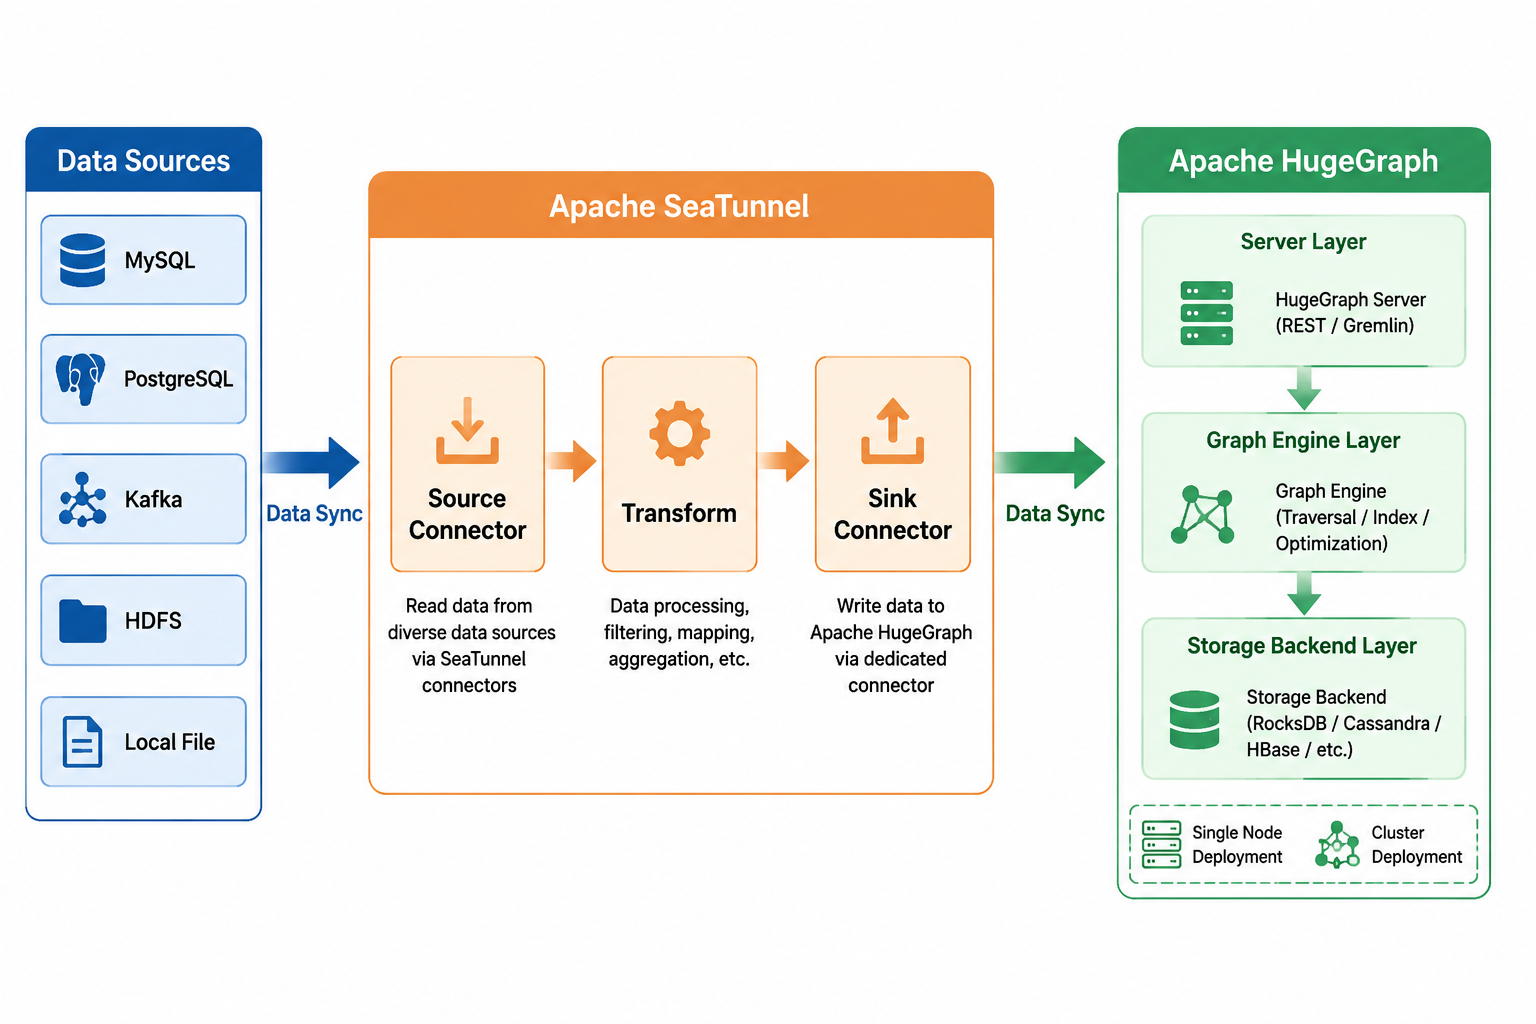
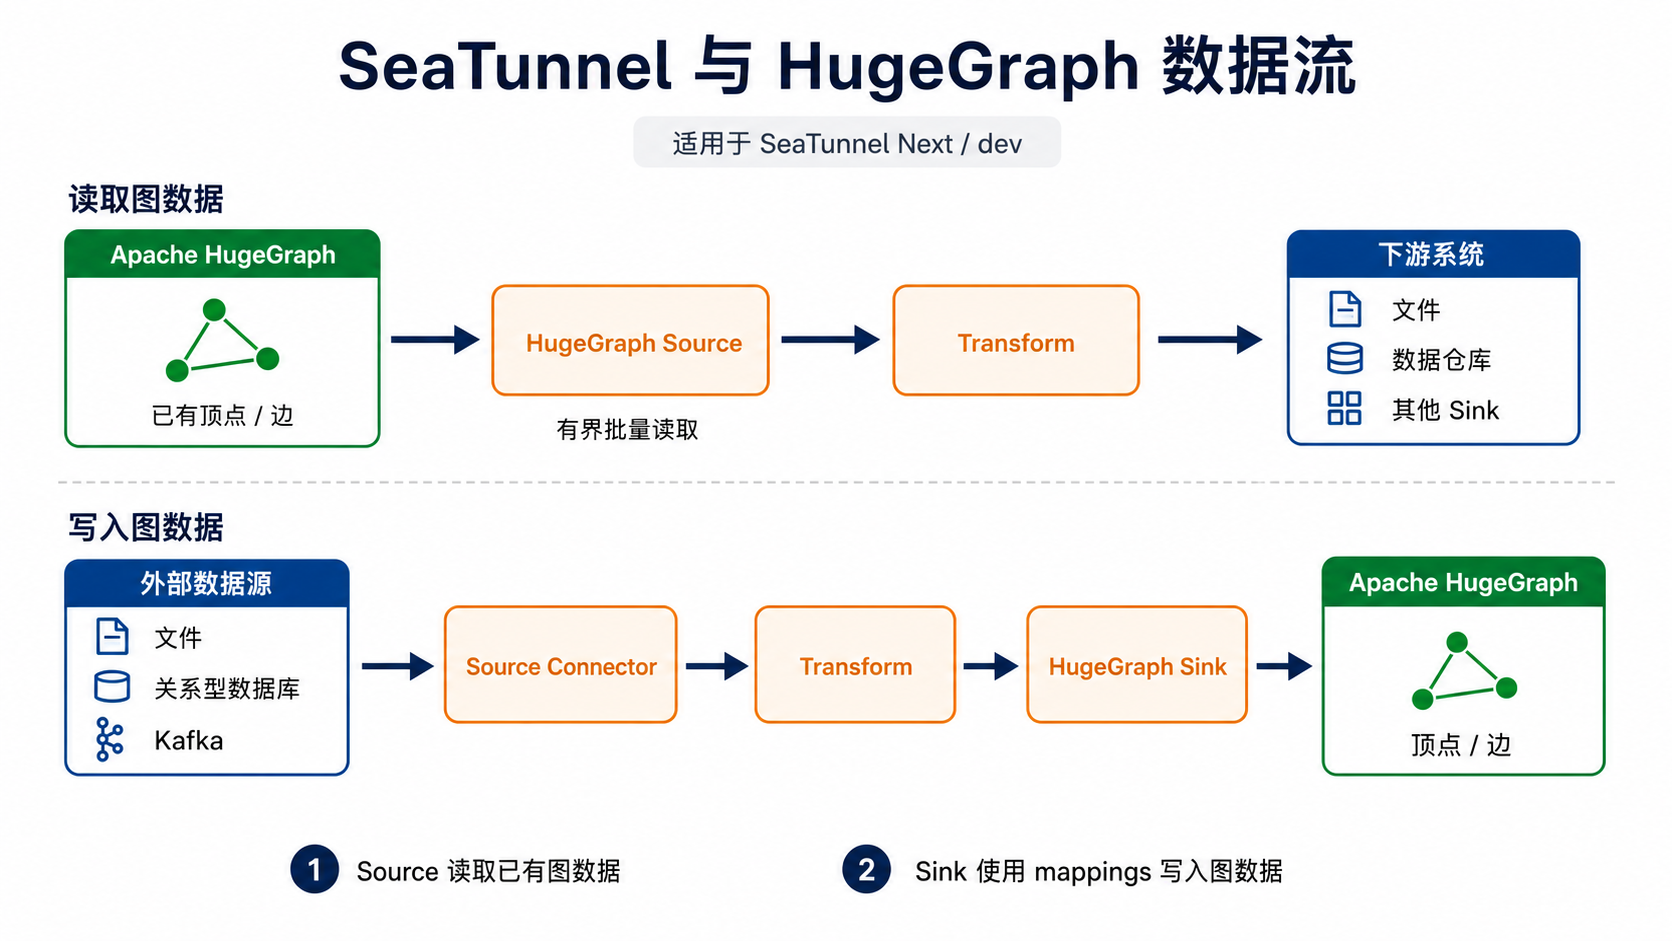
docs: add SeaTunnel Source and Sink guide
- add a single-node import walkthrough with verification
- document HugeGraph Source reads and graph clone flows
- align examples and limits with SeaTunnel dev
- remove unrelated workflow and obsolete assets

diff --git a/content/cn/docs/quickstart/toolchain/hugegraph-seatunnel-connector.md b/content/cn/docs/quickstart/toolchain/hugegraph-seatunnel-connector.md
@@ -1,51 +1,54 @@
 ---
-title: "HugeGraph-SeaTunnel Connector Quick Start"
-linkTitle: "使用 SeaTunnel Connector 同步数据"
+title: "HugeGraph 与 SeaTunnel Connector 快速开始"
+linkTitle: "使用 SeaTunnel 读写 HugeGraph"
 weight: 5
 ---
 
-### 1 HugeGraph-SeaTunnel Connector 概述
+### 1 先了解版本范围
 
-[Apache SeaTunnel](https://seatunnel.apache.org/) 是一个高性能、分布式的数据集成平台，支持海量数据的实时同步与批处理。
-HugeGraph 社区已向 Apache SeaTunnel 贡献了 Connector-V2 支持，用户可以通过 SeaTunnel 将 HugeGraph 与外部数据系统进行数据同步。
+Apache SeaTunnel 的 HugeGraph Connector 可以从 HugeGraph 读取顶点或边，也可以把上游数据写成 HugeGraph 顶点或边。
 
-![HugeGraph + SeaTunnel 数据集成架构图](/cn/docs/images/seatunnel/hugegraph-seatunnel-architecture.png)
+本文跟随 SeaTunnel 官网的 `Next` 文档和 `dev` 分支代码。固定版本的发行包可能只包含其中一部分能力。准备生产任务时，请在 SeaTunnel 官网切换到所用版本，再核对该版本的参数和限制。
 
-### 2 功能特性
+![SeaTunnel Next 和 dev 中，从 HugeGraph 经 HugeGraph Source 读取到下游，以及从外部数据源经 HugeGraph Sink 写入 HugeGraph 的两条独立数据流](/cn/docs/images/seatunnel/hugegraph-seatunnel-architecture.png)
 
-HugeGraph-SeaTunnel Connector 提供以下能力：
+图中上下两条流程是独立的批量任务，不表示实时双向同步。`Transform` 是按需添加的可选步骤。小屏阅读时可[查看原图](/cn/docs/images/seatunnel/hugegraph-seatunnel-architecture.png)。
 
-- **HugeGraph Sink Connector**（已发布）：将外部数据写入 HugeGraph，支持顶点和边的批量写入、更新与删除
-- **HugeGraph Source Connector**（开发中）：从 HugeGraph 读取图数据，支持顶点和边的批量读取
-- **顶点同步**：支持全量或增量同步顶点数据，支持多种 ID 策略
-- **边同步**：支持全量或增量同步边数据，自动关联源顶点与目标顶点
-- **Schema 自动管理**：支持自动创建 PropertyKey、VertexLabel、EdgeLabel（`CREATE_SCHEMA_WHEN_NOT_EXIST`）
-- **数据迁移**：支持在不同 HugeGraph 实例之间迁移数据，或从其他数据源导入图数据
+### 2 用单机 SeaTunnel 完成第一次导入
 
-![HugeGraph Source/Sink 双向数据流示意图](/cn/docs/images/seatunnel/hugegraph-seatunnel-source-sink.png)
+这条路径使用 `FakeSource` 生成两个人物顶点，再写入本机 HugeGraph。整个任务只需要 SeaTunnel、HugeGraph 和三个 Connector 插件。
 
-### 3 环境要求
+#### 2.1 启动 HugeGraph
 
-| 组件 | 版本要求 | 说明 |
-|------|---------|------|
-| Java | 11+ | HugeGraph Client 1.5.0+ 运行环境要求 |
-| Apache SeaTunnel | 2.3.13+ | Sink Connector 自此版本发布（内置 HugeGraph Client 1.5.0） |
-| HugeGraph Server | 1.5.0+ | 需与 Connector 内置 Client 版本匹配 |
+按照 [HugeGraph Server 快速开始](/cn/docs/quickstart/hugegraph/hugegraph-server) 启动服务。默认地址为 `http://localhost:8080`，可以先检查服务是否可访问。
 
-> **Source Connector 说明**：HugeGraph Source Connector 目前仅在 SeaTunnel 开发分支（Next/master）中可用，
-> 尚未包含在正式 Release 中。如需使用 Source 功能，请从 SeaTunnel 源码编译或等待下一版本发布。
+```bash
+curl http://localhost:8080/versions
+```
 
-### 4 快速开始
+#### 2.2 安装 Connector
 
-#### 4.1 安装 SeaTunnel
+准备一个包含 HugeGraph Connector 的 SeaTunnel `Next` 或 `dev` 构建。在 `config/plugin_config` 中保留下列插件。
 
-请参考 [Apache SeaTunnel 部署指南](https://seatunnel.apache.org/docs/getting-started/) 完成 SeaTunnel 的安装部署。
+```text
+--seatunnel-connectors--
+connector-fake
+connector-console
+connector-hugegraph
+--end--
+```
 
-#### 4.2 使用 HugeGraph Sink Connector（写入数据）
+发行包能够取得对应版本插件时，在 SeaTunnel 目录中执行安装脚本。
 
-以下示例展示如何通过 SeaTunnel 将数据写入 HugeGraph：
+```bash
+sh bin/install-plugin.sh
+```
 
-**写入顶点数据：**
+如果开发版插件尚未发布到仓库，需要从 SeaTunnel `dev` 分支构建。插件代码和 SeaTunnel 运行时应来自同一版本。安装方法可参考 [SeaTunnel 本地部署说明](https://seatunnel.apache.org/zh-CN/docs/getting-started/locally/deployment/)。
+
+#### 2.3 保存顶点导入配置
+
+把下面内容保存为 `config/hugegraph-vertex-sink.conf`。`mappings` 描述输入字段和 HugeGraph 顶点之间的关系。`CREATE_SCHEMA_WHEN_NOT_EXIST` 会在首次运行时创建缺失的属性键和 `person` 顶点标签。示例使用 `CUSTOMIZE_STRING`，把 `name` 的值直接作为顶点 ID，便于后续迁移时保留 ID。
 
 ```hocon
 env {
@@ -54,26 +57,37 @@ env {
 
 source {
   FakeSource {
-    plugin_output = "fake"
     schema = {
       fields = {
         name = "string"
         age = "int"
       }
     }
+    rows = [
+      {
+        kind = INSERT
+        fields = ["alice", 29]
+      }
+      {
+        kind = INSERT
+        fields = ["bob", 31]
+      }
+    ]
   }
 }
 
 sink {
   HugeGraph {
-    host = "127.0.0.1"
+    host = "localhost"
     port = 8080
+    protocol = "http"
     graph_name = "hugegraph"
+    schema_save_mode = "CREATE_SCHEMA_WHEN_NOT_EXIST"
     mappings = [
       {
         type = "VERTEX"
         label = "person"
-        idStrategy = "PRIMARY_KEY"
+        idStrategy = "CUSTOMIZE_STRING"
         idFields = ["name"]
         properties = ["name", "age"]
       }
@@ -82,14 +96,50 @@ sink {
 }
 ```
 
-**写入边数据：**
+#### 2.4 运行并检查结果
+
+```bash
+bin/seatunnel.sh -m local --config config/hugegraph-vertex-sink.conf
+curl --compressed "http://localhost:8080/graphspaces/DEFAULT/graphs/hugegraph/graph/vertices"
+```
+
+返回结果中应当出现标签为 `person`、`name` 分别为 `alice` 和 `bob` 的两个顶点。
+
+#### 2.5 再导入一条边
+
+顶点导入完成后，把下面内容保存为 `config/hugegraph-edge-sink.conf`。这个任务创建一条从 `alice` 指向 `bob` 的 `knows` 边。
 
 ```hocon
+env {
+  job.mode = "BATCH"
+}
+
+source {
+  FakeSource {
+    schema = {
+      fields = {
+        person1_name = "string"
+        person2_name = "string"
+        since = "int"
+      }
+    }
+    rows = [
+      {
+        kind = INSERT
+        fields = ["alice", "bob", 2024]
+      }
+    ]
+  }
+}
+
 sink {
   HugeGraph {
-    host = "127.0.0.1"
+    host = "localhost"
     port = 8080
+    protocol = "http"
     graph_name = "hugegraph"
+    check_vertex = true
+    schema_save_mode = "CREATE_SCHEMA_WHEN_NOT_EXIST"
     mappings = [
       {
         type = "EDGE"
@@ -113,34 +163,178 @@ sink {
 }
 ```
 
-> **注意**：HugeGraph 的 Schema（PropertyKey、VertexLabel、EdgeLabel）需要在执行写入任务前预先创建，
-> 或使用 `schema_save_mode = CREATE_SCHEMA_WHEN_NOT_EXIST`（默认行为）由 Connector 自动创建。
+```bash
+bin/seatunnel.sh -m local --config config/hugegraph-edge-sink.conf
+curl --compressed "http://localhost:8080/graphspaces/DEFAULT/graphs/hugegraph/graph/edges"
+```
 
-#### 4.3 核心配置参数
+`check_vertex = true` 会拒绝端点顶点尚未写入的边。迁移任务通常应先导入顶点，再导入边。
 
-| 参数 | 类型 | 必填 | 默认值 | 说明 |
-|------|------|------|--------|------|
-| `host` | String | 是 | - | HugeGraph Server 地址 |
-| `port` | Integer | 是 | - | HugeGraph Server 端口 |
-| `graph_name` | String | 是 | - | 图名称 |
-| `graph_space` | String | 否 | DEFAULT | 图空间名称 |
-| `username` | String | 否 | - | 认证用户名 |
-| `password` | String | 否 | - | 认证密码 |
-| `protocol` | String | 否 | http | 协议，可选 `http` 或 `https` |
-| `batch_size` | Integer | 否 | 500 | 每批写入的记录数 |
-| `batch_interval_ms` | Integer | 否 | 5000 | 批次最大等待时间（毫秒） |
-| `max_retries` | Integer | 否 | 3 | 写入失败最大重试次数 |
-| `retry_backoff_ms` | Integer | 否 | 5000 | 重试间隔（毫秒） |
+### 3 从 HugeGraph 读取数据
 
-> 完整参数列表和详细说明请参考 [Apache SeaTunnel HugeGraph Connector 官方文档](https://seatunnel.apache.org/docs/connector-v2/sink/HugeGraph/)。
+下面的任务读取 `person` 顶点，并把结果输出到控制台。保存为 `config/hugegraph-source.conf`。
 
-### 5 文档与资源
+```hocon
+env {
+  job.mode = "BATCH"
+}
 
-- [Apache SeaTunnel 官方网站](https://seatunnel.apache.org/)
-- [Apache SeaTunnel HugeGraph Sink Connector 文档](https://seatunnel.apache.org/docs/connector-v2/sink/HugeGraph/)
-- [Apache SeaTunnel GitHub](https://github.com/apache/seatunnel)
-- [HugeGraph GitHub](https://github.com/apache/hugegraph)
+source {
+  HugeGraph {
+    host = "localhost"
+    port = 8080
+    protocol = "http"
+    graph_name = "hugegraph"
+    label = "person"
+    label_type = "VERTEX"
+    page_size = 1000
+    parallelism = 1
+    schema = {
+      fields = {
+        name = "string"
+        age = "int"
+      }
+    }
+  }
+}
 
-### 6 许可证
+sink {
+  Console {}
+}
+```
 
-与 HugeGraph 一样，HugeGraph-SeaTunnel Connector 采用 Apache 2.0 许可证。
+```bash
+bin/seatunnel.sh -m local --config config/hugegraph-source.conf
+```
+
+顶点结果会自动带上 `~id` 和 `~label`。读取边时，把 `label_type` 改为 `EDGE` 并填写边标签。边结果还会带上 `~source_id`、`~source_label`、`~target_id` 和 `~target_label`。
+
+省略 `schema` 时，Source 会从 HugeGraph 读取标签定义并发现属性列。省略 `label` 时，它会读取 `label_type` 下的全部标签，每个标签输出一张表。全部标签模式不能配置 `schema` 或 `filter`。
+
+单标签大数据量读取可以把 `parallelism` 设为大于 `1`，并用 `split_size` 控制分片大小。该模式要求 HugeGraph 后端支持 scan，不能与 `filter` 同时使用。`memory` 后端应保持 `parallelism = 1`。
+
+### 4 在两个 HugeGraph 图之间迁移
+
+Source 和 Sink 可以直接组成迁移任务。下面的配置把源图中的 `person` 顶点写入目标图。示例用不同主机名区分两套服务，请按实际地址修改。
+
+目标图要先创建兼容的 `person` Schema，并把顶点 ID 策略设为 `CUSTOMIZE_STRING`。本文将 `schema_save_mode` 设为 `ERROR_WHEN_SCHEMA_NOT_EXIST`，避免迁移时意外改变已有图模型。
+
+```hocon
+env {
+  job.mode = "BATCH"
+}
+
+source {
+  HugeGraph {
+    host = "source-hugegraph"
+    port = 8080
+    graph_name = "hugegraph"
+    label = "person"
+    label_type = "VERTEX"
+    schema = {
+      fields = {
+        name = "string"
+        age = "int"
+      }
+    }
+  }
+}
+
+sink {
+  HugeGraph {
+    host = "target-hugegraph"
+    port = 8080
+    graph_name = "hugegraph"
+    schema_save_mode = "ERROR_WHEN_SCHEMA_NOT_EXIST"
+    mappings = [
+      {
+        type = "VERTEX"
+        label = "person"
+        idStrategy = "CUSTOMIZE_STRING"
+        idFields = ["~id"]
+        properties = ["name", "age"]
+      }
+    ]
+  }
+}
+```
+
+保存为 `config/hugegraph-clone-vertices.conf` 后运行。
+
+```bash
+bin/seatunnel.sh -m local --config config/hugegraph-clone-vertices.conf
+```
+
+边迁移要在顶点迁移完成后执行。这个示例已经通过 `CUSTOMIZE_STRING` 保留了顶点 ID，因此 Sink 可以直接复用 HugeGraph Source 输出的完整端点 ID `~source_id` 和 `~target_id`。
+
+```hocon
+env {
+  job.mode = "BATCH"
+}
+
+source {
+  HugeGraph {
+    host = "source-hugegraph"
+    port = 8080
+    graph_name = "hugegraph"
+    label = "knows"
+    label_type = "EDGE"
+    schema = {
+      fields = {
+        since = "int"
+      }
+    }
+  }
+}
+
+sink {
+  HugeGraph {
+    host = "target-hugegraph"
+    port = 8080
+    graph_name = "hugegraph"
+    check_vertex = true
+    schema_save_mode = "ERROR_WHEN_SCHEMA_NOT_EXIST"
+    mappings = [
+      {
+        type = "EDGE"
+        label = "knows"
+        sourceConfig = {
+          label = "person"
+          idFields = ["~source_id"]
+        }
+        targetConfig = {
+          label = "person"
+          idFields = ["~target_id"]
+        }
+        properties = ["since"]
+      }
+    ]
+  }
+}
+```
+
+保存为 `config/hugegraph-clone-edges.conf`，再用 `bin/seatunnel.sh -m local --config config/hugegraph-clone-edges.conf` 执行。
+
+#### 4.1 迁移边界
+
+- Source 是有界批量读取，不提供 HugeGraph CDC。
+- Sink 提供 at-least-once 语义。使用 `AUTOMATIC` ID 时，重试可能产生重复顶点，且原始顶点 ID 无法保留。
+- 使用保留列克隆边之前，目标图的顶点标签和端点顶点都要存在，端点 ID 也必须与源图一致。本文的 `CUSTOMIZE_STRING` 示例满足这个条件。
+- 自定义字符串、数字或 UUID 顶点可以用 `~id` 作为 Sink 的 `idFields`，并选择对应的 `CUSTOMIZE_*` 策略。
+- `PRIMARY_KEY` 顶点应使用主键属性在目标图中重新生成 ID。它的完整 ID 包含标签的 Schema ID，两个独立图中的值可能不同。此时不能直接复用边的 `~source_id` 和 `~target_id`。边输入还需要携带端点主键属性并按目标标签重建 ID，或者通过备份恢复等方式保留 Schema ID。
+- 省略 `label` 可以读取同一类型下的全部标签，但顶点和边仍需分成两个任务，并按先顶点后边的顺序执行。
+
+### 5 生产任务还要检查什么
+
+快速示例使用自动建 Schema。已有图模型建议预先创建 Schema，并设置 `schema_save_mode = ERROR_WHEN_SCHEMA_NOT_EXIST`。Sink 的 `idStrategy` 必须与目标顶点标签一致，边的 `sourceConfig` 和 `targetConfig` 也要能还原端点 ID。
+
+连接认证可配置 `username` 和 `password`。`protocol` 默认是 `http`，使用 `https` 时需要为 SeaTunnel Worker 配置 JVM trust store。图空间可通过 `graph_space` 指定，默认值为 `DEFAULT`。
+
+常用的吞吐参数包括 Sink 的 `batch_size`、`batch_interval_ms`，以及 Source 的 `page_size`、`parallelism` 和 `split_size`。完整参数和类型映射以 SeaTunnel 当前文档为准。
+
+### 6 进一步阅读
+
+- [SeaTunnel HugeGraph Source 开发版文档](https://seatunnel.apache.org/zh-CN/docs/connectors/source/HugeGraph/)
+- [SeaTunnel HugeGraph Sink 开发版文档](https://seatunnel.apache.org/zh-CN/docs/connectors/sink/HugeGraph/)
+- [SeaTunnel GitHub 仓库](https://github.com/apache/seatunnel)
+- [HugeGraph Schema 和 Client](/cn/docs/quickstart/client/hugegraph-client)
